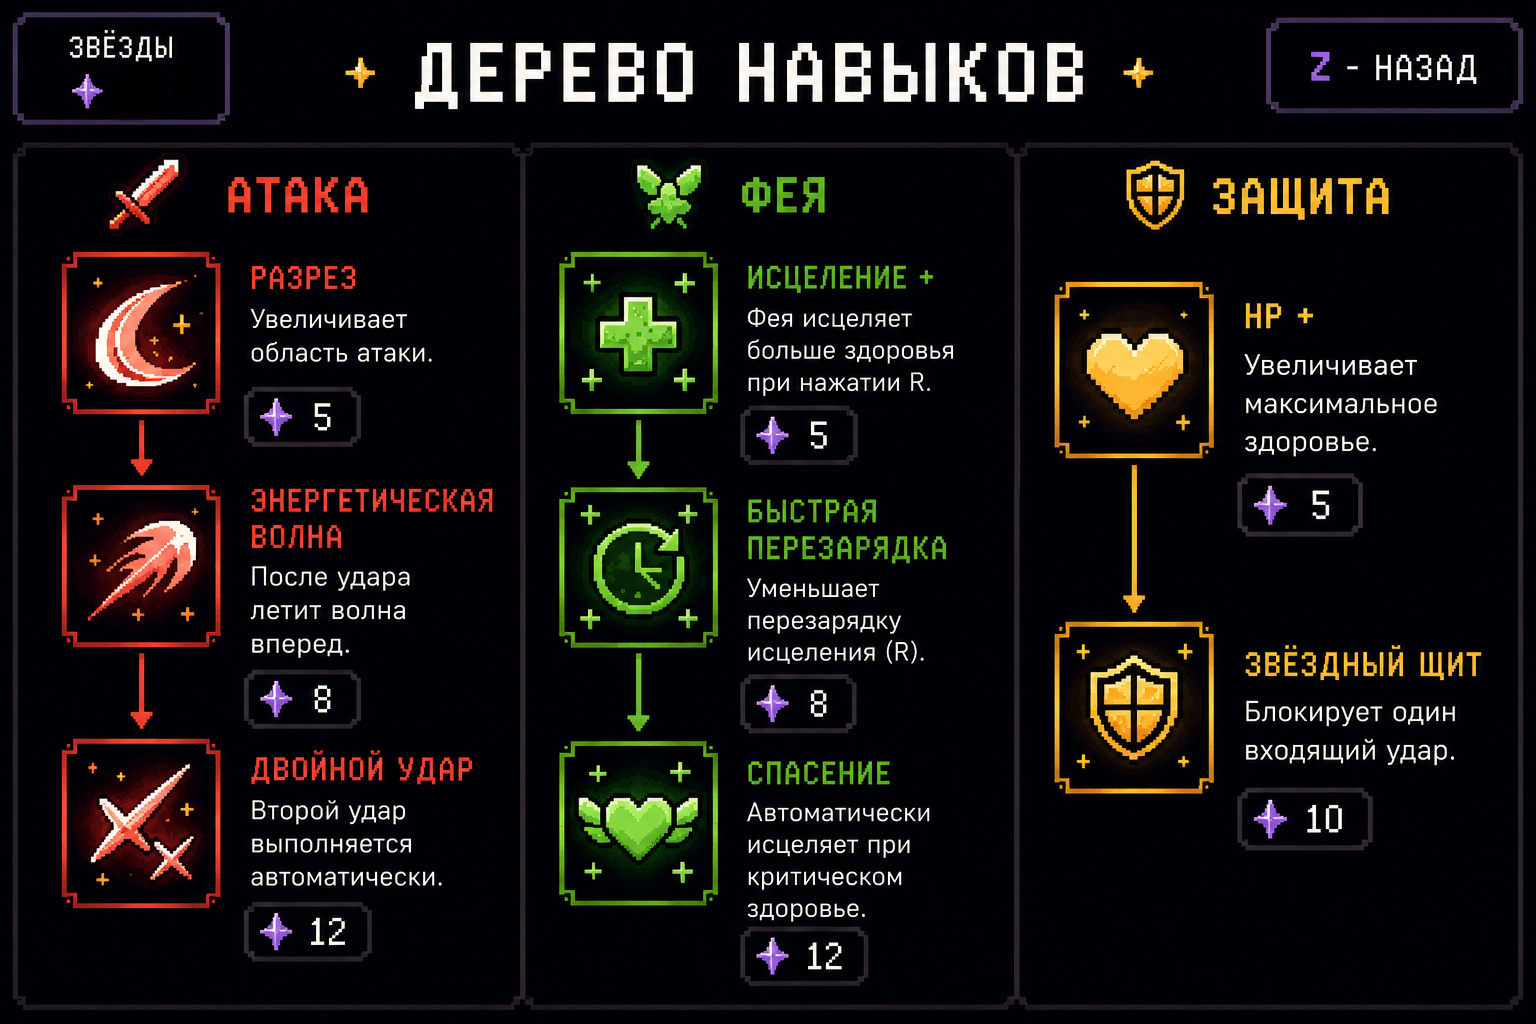
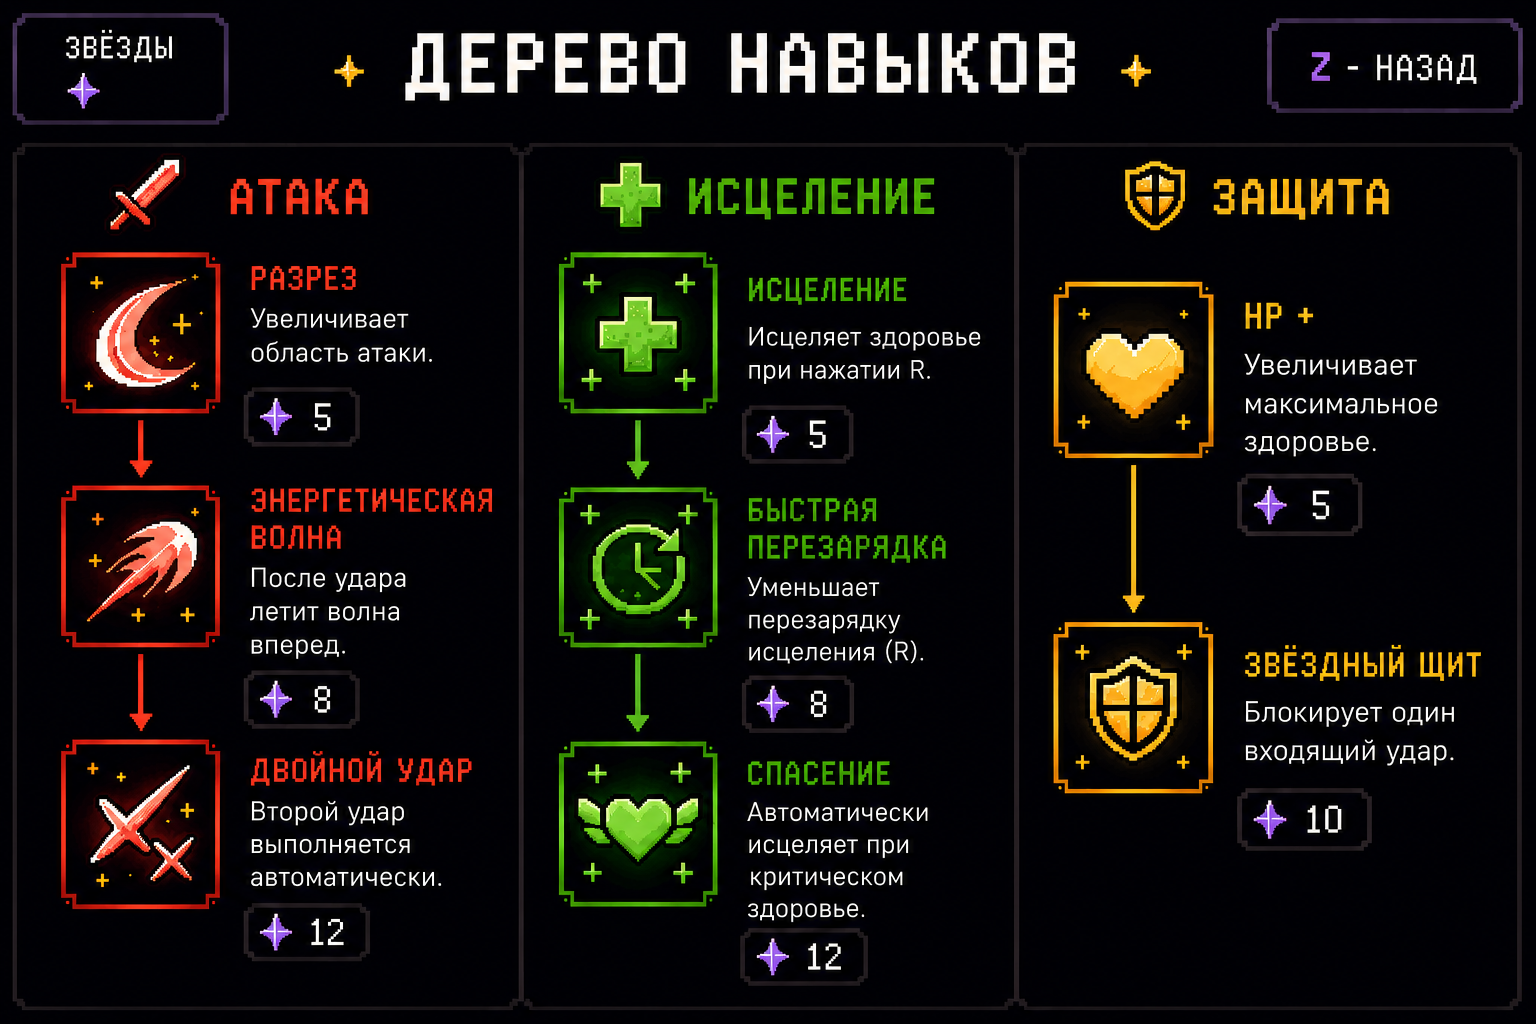
реализовано полностью древо навыков

diff --git a/views/ui/skill_cooldown_ui.py b/views/ui/skill_cooldown_ui.py
@@ -1,0 +1,60 @@
+import math
+
+import pygame
+
+from settings import (
+    DEFENSE_SHIELD_COOLDOWN,
+    SKILL_COOLDOWN_ICON_SIZE,
+    STAGE_TITLE_FONT_PATH,
+    WIDTH,
+)
+
+
+class SkillCooldownUI:
+    """Cooldown icons for the two active skill-branch effects."""
+
+    def __init__(self):
+        self.font = pygame.font.Font(STAGE_TITLE_FONT_PATH, 30)
+        self.icons = {
+            "fairy_heal": self._load_icon("assets/images/skill_tree/time_heal.png"),
+            "defense_shield": self._load_icon("assets/images/skill_tree/time_shield.png"),
+        }
+
+    def _load_icon(self, path):
+        image = pygame.image.load(path).convert_alpha()
+        return pygame.transform.smoothscale(
+            image, (SKILL_COOLDOWN_ICON_SIZE, SKILL_COOLDOWN_ICON_SIZE)
+        )
+
+    def draw(self, surface, player):
+        entries = []
+        if player.has_skill("fairy_heal"):
+            entries.append(("fairy_heal", player.heal_cooldown, player.get_heal_cooldown_max()))
+        if player.has_skill("defense_shield"):
+            entries.append(("defense_shield", player.shield_cooldown, DEFENSE_SHIELD_COOLDOWN))
+
+        margin = 18
+        gap = 12
+        for index, (skill_id, remaining, maximum) in enumerate(reversed(entries)):
+            x = WIDTH - margin - SKILL_COOLDOWN_ICON_SIZE - index * (
+                SKILL_COOLDOWN_ICON_SIZE + gap
+            )
+            rect = pygame.Rect(x, margin, SKILL_COOLDOWN_ICON_SIZE, SKILL_COOLDOWN_ICON_SIZE)
+            surface.blit(self.icons[skill_id], rect)
+            self._draw_cooldown(surface, rect, remaining, maximum)
+
+    def _draw_cooldown(self, surface, rect, remaining, maximum):
+        if remaining <= 0:
+            return
+
+        ratio = min(1.0, remaining / maximum) if maximum > 0 else 0.0
+        overlay_height = round(rect.height * ratio)
+        overlay = pygame.Surface((rect.width, overlay_height), pygame.SRCALPHA)
+        overlay.fill((0, 0, 0, 155))
+        surface.blit(overlay, (rect.x, rect.bottom - overlay_height))
+
+        text = self.font.render(str(math.ceil(remaining)), True, (255, 255, 255))
+        shadow = self.font.render(str(math.ceil(remaining)), True, (10, 10, 10))
+        text_rect = text.get_rect(center=rect.center)
+        surface.blit(shadow, text_rect.move(2, 2))
+        surface.blit(text, text_rect)

diff --git a/models/player.py b/models/player.py
@@ -3,7 +3,9 @@ from settings import (
     PLAYER_SPEED, PLAYER_SIZE, PLAYER_MAX_HP, PLAYER_COLLISION_HEIGHT_RATIO,
     PLAYER_ATTACK_COOLDOWN, DAMAGE_COOLDOWN_DEFAULT,
     PLAYER_ATTACK_DAMAGE, BASE_REQUIRED_XP, XP_PER_LEVEL,
-    HP_PER_LEVEL, DAMAGE_PER_LEVEL
+    HP_PER_LEVEL, DAMAGE_PER_LEVEL,
+    FAIRY_HEAL_AMOUNT, FAIRY_HEAL_COOLDOWN, FAIRY_HEAL_FAST_COOLDOWN,
+    FAIRY_RESCUE_HP_THRESHOLD, DEFENSE_HP_BONUS, DEFENSE_SHIELD_COOLDOWN,
 )
 
 
@@ -36,8 +38,10 @@ class Player(pygame.sprite.Sprite):
         self.attack_damage = PLAYER_ATTACK_DAMAGE
         self.level = 1
         self.xp = 0
-        self.stars = 0
+        self.stars = 500
         self.unlocked_skills = set()
+        self.heal_cooldown = 0.0
+        self.shield_cooldown = 0.0
 
 
         self.damage_cooldown = 0.0
@@ -66,11 +70,16 @@ class Player(pygame.sprite.Sprite):
         if self.invincible:
             return False
 
+        if self.has_skill("defense_shield") and self.shield_cooldown <= 0:
+            self.shield_cooldown = DEFENSE_SHIELD_COOLDOWN
+            return False
+
         self.hp -= damage
         self.request_damage_visual()
         if self.hp <= 0:
             self.hp = 0
             return True
+        self._try_rescue()
         return False
 
     def request_damage_visual(self):
@@ -92,10 +101,39 @@ class Player(pygame.sprite.Sprite):
             if self.attack_cooldown < 0:
                 self.attack_cooldown = 0
 
+        self.heal_cooldown = max(0.0, self.heal_cooldown - dt)
+        self.shield_cooldown = max(0.0, self.shield_cooldown - dt)
+
     def heal(self, amount):
         self.hp += amount
         if self.hp > self.max_hp:
             self.hp = self.max_hp
+
+    def use_heal_skill(self):
+        if (
+            not self.has_skill("fairy_heal")
+            or self.heal_cooldown > 0
+            or self.hp <= 0
+            or self.hp >= self.max_hp
+        ):
+            return False
+
+        self.heal(FAIRY_HEAL_AMOUNT)
+        self.heal_cooldown = self.get_heal_cooldown_max()
+        return True
+
+    def get_heal_cooldown_max(self):
+        if self.has_skill("fairy_cooldown"):
+            return FAIRY_HEAL_FAST_COOLDOWN
+        return FAIRY_HEAL_COOLDOWN
+
+    def _try_rescue(self):
+        if (
+            self.has_skill("fairy_rescue")
+            and self.heal_cooldown <= 0
+            and 0 < self.hp <= self.max_hp * FAIRY_RESCUE_HP_THRESHOLD
+        ):
+            self.use_heal_skill()
 
     def get_required_xp(self):
         return BASE_REQUIRED_XP + self.level * XP_PER_LEVEL
@@ -130,6 +168,9 @@ class Player(pygame.sprite.Sprite):
 
         self.stars -= cost
         self.unlocked_skills.add(skill_id)
+        if skill_id == "defense_hp":
+            self.max_hp += DEFENSE_HP_BONUS
+            self.hp += DEFENSE_HP_BONUS
         return True
 
     def get_progress_snapshot(self):

diff --git a/tests/test_player.py b/tests/test_player.py
@@ -4,6 +4,10 @@ from models.player import Player
 from settings import (
     BASE_REQUIRED_XP,
     DAMAGE_PER_LEVEL,
+    DEFENSE_HP_BONUS,
+    DEFENSE_SHIELD_COOLDOWN,
+    FAIRY_HEAL_AMOUNT,
+    FAIRY_HEAL_FAST_COOLDOWN,
     HP_PER_LEVEL,
     PLAYER_ATTACK_DAMAGE,
     PLAYER_MAX_HP,
@@ -71,6 +75,35 @@ class PlayerTest(unittest.TestCase):
         player.update_cooldown(player.damage_cooldown_max)
 
         self.assertIs(player.invincible, False)
+
+    def test_healing_branch_uses_reduced_cooldown_and_auto_rescue(self):
+        player = Player(10, 20)
+        player.unlocked_skills.update(
+            {"fairy_heal", "fairy_cooldown", "fairy_rescue"}
+        )
+        player.hp = 20
+
+        player.take_damage(1)
+
+        self.assertEqual(player.hp, 19 + FAIRY_HEAL_AMOUNT)
+        self.assertEqual(player.heal_cooldown, FAIRY_HEAL_FAST_COOLDOWN)
+        self.assertIs(player.use_heal_skill(), False)
+
+    def test_defense_branch_adds_hp_and_blocks_one_hit_per_cooldown(self):
+        player = Player(10, 20)
+        player.stars = 15
+
+        self.assertIs(player.unlock_skill("defense_hp", 5), True)
+        self.assertEqual(player.max_hp, PLAYER_MAX_HP + DEFENSE_HP_BONUS)
+        self.assertEqual(player.hp, player.max_hp)
+        self.assertIs(player.unlock_skill("defense_shield", 10), True)
+
+        player.take_damage(25)
+        self.assertEqual(player.hp, player.max_hp)
+        self.assertEqual(player.shield_cooldown, DEFENSE_SHIELD_COOLDOWN)
+
+        player.take_damage(25)
+        self.assertEqual(player.hp, player.max_hp - 25)
 
 
 if __name__ == "__main__":

diff --git a/settings.py b/settings.py
@@ -21,6 +21,15 @@ ATTACK_WAVE_HEIGHT = 132
 ATTACK_DOUBLE_HIT_DELAY = 0.18
 ATTACK_DOUBLE_HIT_DAMAGE_MULTIPLIER = 0.75
 
+# Healing and defense skill branches
+FAIRY_HEAL_AMOUNT = 45
+FAIRY_HEAL_COOLDOWN = 12.0
+FAIRY_HEAL_FAST_COOLDOWN = 7.0
+FAIRY_RESCUE_HP_THRESHOLD = 0.25
+DEFENSE_HP_BONUS = 50
+DEFENSE_SHIELD_COOLDOWN = 10.0
+SKILL_COOLDOWN_ICON_SIZE = 86
+
 
 XP_ORB_VALUE = 5
 BASE_REQUIRED_XP = 20

diff --git a/controllers/scenes/game_scene_controller.py b/controllers/scenes/game_scene_controller.py
@@ -31,6 +31,9 @@ class GameSceneController:
                 if event.key == pygame.K_z:
                     self.model.skill_tree_open = not self.model.skill_tree_open
                     continue
+                if event.key == pygame.K_r and not self.model.skill_tree_open:
+                    self.model.player.use_heal_skill()
+                    continue
                 if event.key == pygame.K_ESCAPE:
                     self.game.save_manager.save(self.model)
                     self.game.change_scene("menu")

diff --git a/views/scenes/game_scene_view.py b/views/scenes/game_scene_view.py
@@ -12,6 +12,7 @@ from views.transitions.fader import Fader
 from views.transitions.stage_title import StageTitle
 from views.ui.health_bar import HealthBar
 from views.ui.skill_tree_ui import SkillTreeUI
+from views.ui.skill_cooldown_ui import SkillCooldownUI
 from views.ui.xp_bar import XPBar
 
 
@@ -23,6 +24,7 @@ class GameSceneView:
         self.xp_bar = XPBar(18, 74)
         self.stage_clear_message = StageClearMessage()
         self.skill_tree_ui = SkillTreeUI()
+        self.skill_cooldown_ui = SkillCooldownUI()
         self.exit_message_font = pygame.font.Font(None, 48)
         self.fader = Fader()
         self.stage_title = StageTitle()
@@ -157,6 +159,7 @@ class GameSceneView:
 
         if self.model.player:
             self.xp_bar.draw(self.screen, self.model.player)
+            self.skill_cooldown_ui.draw(self.screen, self.model.player)
 
         self.stage_clear_message.draw(self.screen)
 